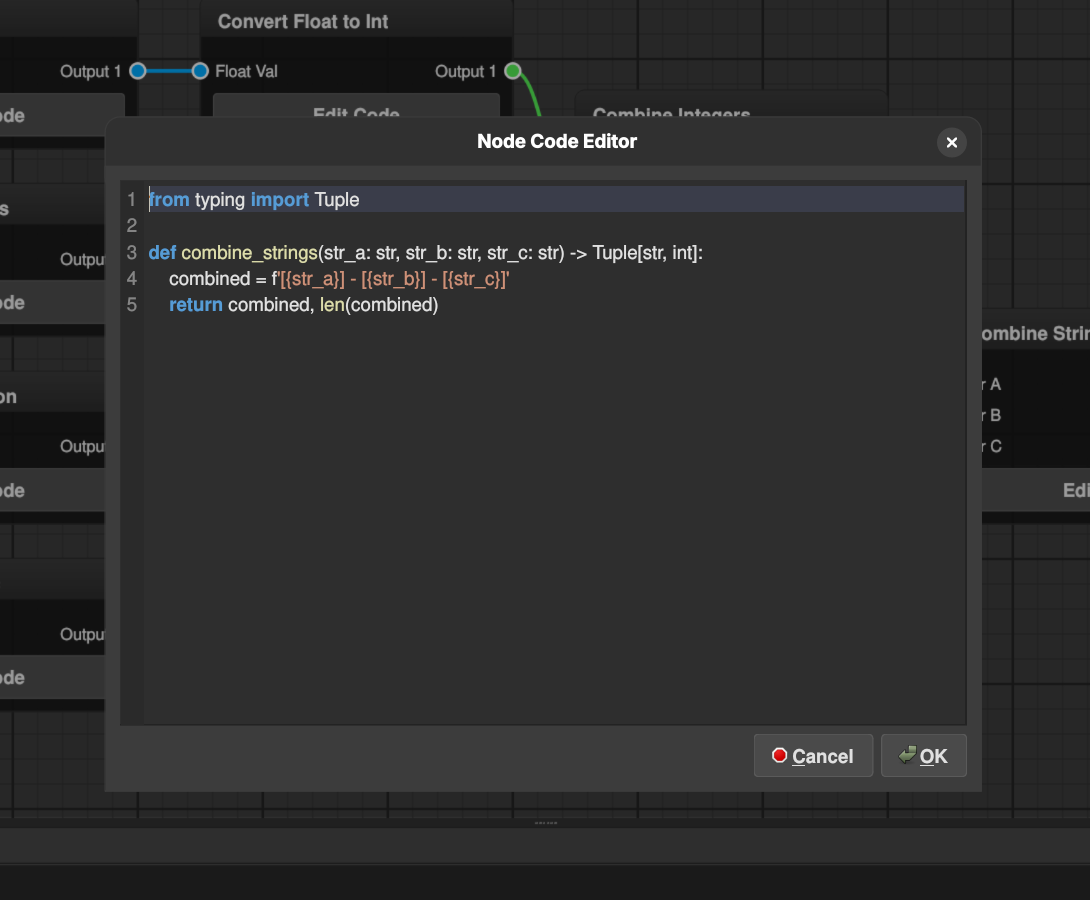
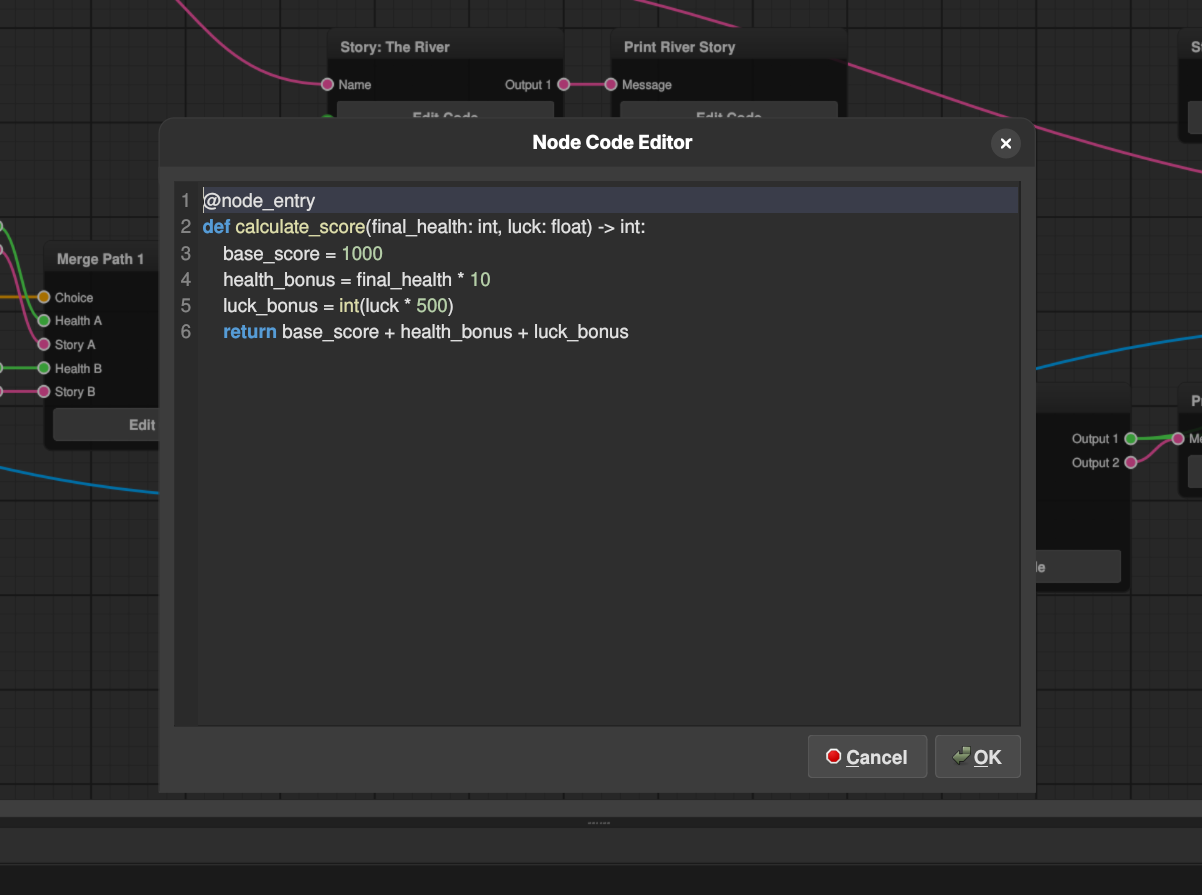
readme images updated

diff --git a/readme.md b/readme.md
@@ -1,4 +1,4 @@
-# PySide6 Advanced Node Editor
+# PyFlowCanvas (PySide6 Advanced Node Editor)
 
 > **Note: This is a 100% AI-Generated Coding Experiment**
 >
@@ -41,7 +41,7 @@ The core philosophy of this editor is **"Code as Nodes."** Instead of manually a
 ## Screenshots
 
 ### Main Interface
-![Node Editor Showcase](images/gui.png)
+![Node Editor Showcase](images/text_adventure_graph.png)
 
 ### Mini-IDE Code Editor
 ![Python Code Editor](images/python_editor.png)
